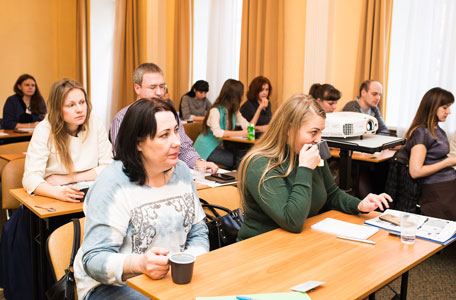
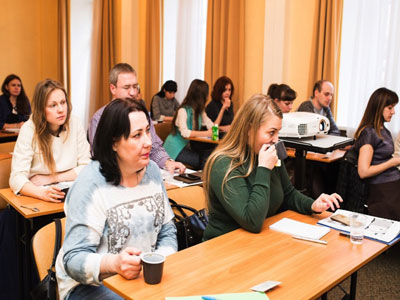
Reworked several images for the shoe trainings carousel

diff --git a/visual-merchandising-dlia-magazinov-obuvi-training.php b/visual-merchandising-dlia-magazinov-obuvi-training.php
@@ -76,39 +76,38 @@
 
         </section>
 
-        <!-- <section class="project-details">
+        <section class="project-details">
           <div class="project-carrusel">
-            <img class="btn-arrows btn-arrows-left" src="/imgs/btn_arrow_left.png" />
 
               <div class="js-carrusel-1">
                   <div class="carr-item"><img src="/imgs/trainings/visual-merchandising-01.jpg" alt=""></div>
                   <div class="carr-item"><img src="/imgs/trainings/visual-merchandising-02.jpg" alt=""></div>
                   <div class="carr-item"><img src="/imgs/trainings/visual-merchandising-03.jpg" alt=""></div>
-                  <div class="carr-item"><img src="/imgs/trainings/visual-merchandising-04.jpg" alt=""></div>
+                  <!-- <div class="carr-item"><img src="/imgs/trainings/visual-merchandising-04.jpg" alt=""></div> -->
                   <div class="carr-item"><img src="/imgs/trainings/visual-merchandising-05.jpg" alt=""></div>
                   <div class="carr-item"><img src="/imgs/trainings/visual-merchandising-06.jpg" alt=""></div>
                   <div class="carr-item"><img src="/imgs/trainings/visual-merchandising-07.jpg" alt=""></div>
-                  <div class="carr-item"><img src="/imgs/trainings/visual-merchandising-08.jpg" alt=""></div>
+                  <!-- <div class="carr-item"><img src="/imgs/trainings/visual-merchandising-08.jpg" alt=""></div> -->
                   <div class="carr-item"><img src="/imgs/trainings/visual-merchandising-09.jpg" alt=""></div>
                   <div class="carr-item"><img src="/imgs/trainings/visual-merchandising-10.jpg" alt=""></div>
                   <div class="carr-item"><img src="/imgs/trainings/visual-merchandising-11.jpg" alt=""></div>
-                  <div class="carr-item"><img src="/imgs/trainings/visual-merchandising-12.jpg" alt=""></div>
+                  <!-- <div class="carr-item"><img src="/imgs/trainings/visual-merchandising-12.jpg" alt=""></div> -->
                   <div class="carr-item"><img src="/imgs/trainings/visual-merchandising-13.jpg" alt=""></div>
                   <div class="carr-item"><img src="/imgs/trainings/visual-merchandising-14.jpg" alt=""></div>
-                  <div class="carr-item"><img src="/imgs/trainings/visual-merchandising-15.jpg" alt=""></div>
-                  <div class="carr-item"><img src="/imgs/trainings/visual-merchandising-16.jpg" alt=""></div>
+                  <!-- <div class="carr-item"><img src="/imgs/trainings/visual-merchandising-15.jpg" alt=""></div> -->
+                  <!-- <div class="carr-item"><img src="/imgs/trainings/visual-merchandising-16.jpg" alt=""></div> -->
                   <div class="carr-item"><img src="/imgs/trainings/visual-merchandising-17.jpg" alt=""></div>
                   <div class="carr-item"><img src="/imgs/trainings/visual-merchandising-18.jpg" alt=""></div>
-                  <div class="carr-item"><img src="/imgs/trainings/visual-merchandising-19.jpg" alt=""></div>
+                  <!-- <div class="carr-item"><img src="/imgs/trainings/visual-merchandising-19.jpg" alt=""></div> -->
                   <div class="carr-item"><img src="/imgs/trainings/visual-merchandising-20.jpg" alt=""></div>
                   <div class="carr-item"><img src="/imgs/trainings/visual-merchandising-21.jpg" alt=""></div>
                   <div class="carr-item"><img src="/imgs/trainings/visual-merchandising-22.jpg" alt=""></div>
-                  <div class="carr-item"><img src="/imgs/trainings/visual-merchandising-23.jpg" alt=""></div>
               </div>
 
+              <img class="btn-arrows btn-arrows-left" src="/imgs/btn_arrow_left.png" />
               <img class="btn-arrows btn-arrows-right" src="/imgs/btn_arrow_right.png" />
           </div>
-        </section> -->
+        </section>
 
         <div class="stripped-title">
             <span></span>
